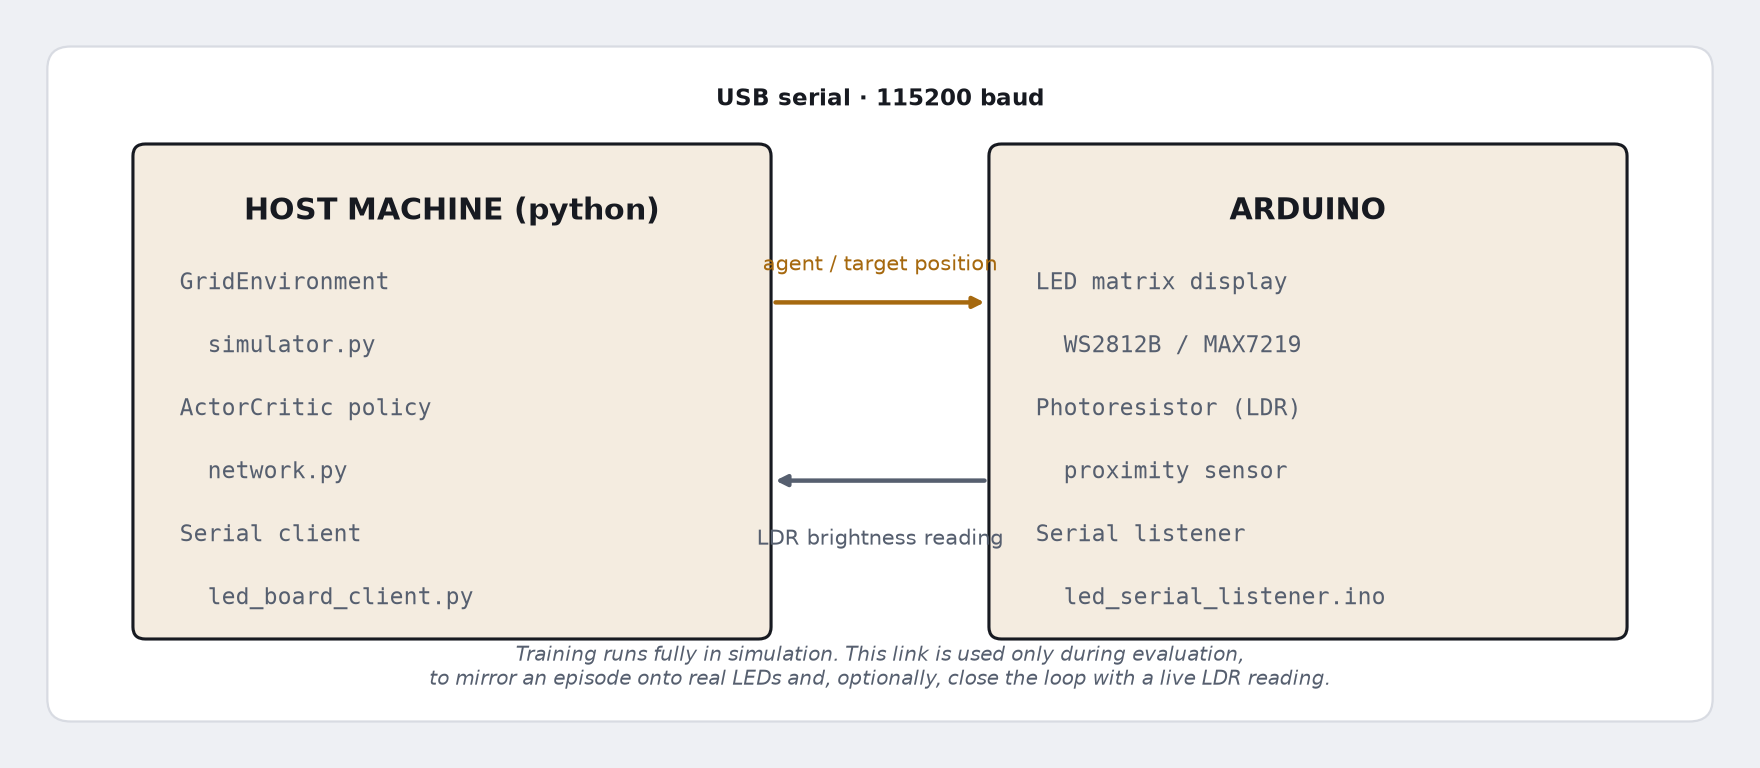
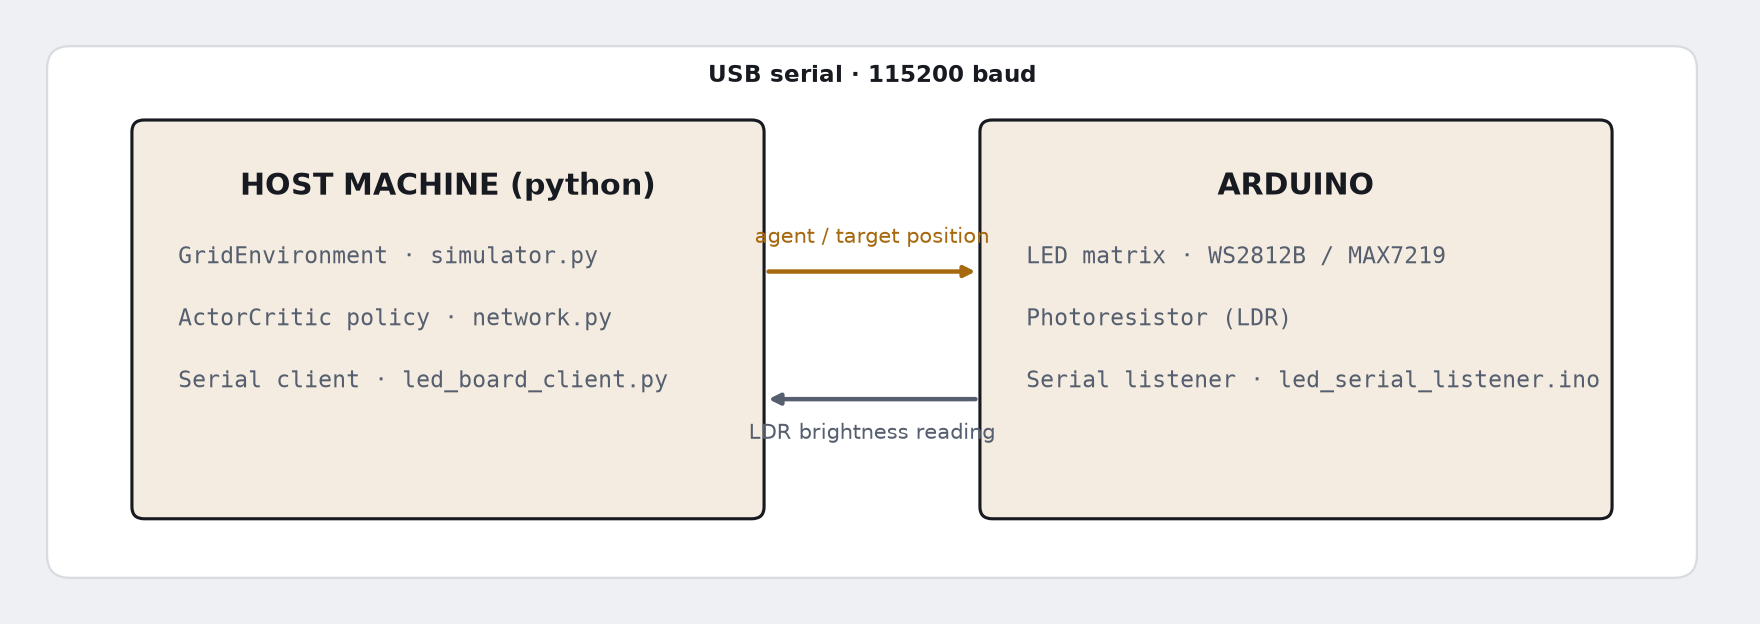
Simplify system diagram to just the host/Arduino connection

diff --git a/assets/generate_diagrams.py b/assets/generate_diagrams.py
@@ -43,57 +43,46 @@ def _box(ax, xy, width, height, title, lines):
 
 
 def make_system_diagram(out_file="assets/system-diagram.png"):
-    fig, ax = plt.subplots(figsize=(11, 4.8), dpi=160)
+    fig, ax = plt.subplots(figsize=(11, 3.9), dpi=160)
     fig.patch.set_facecolor(BG)
     ax.set_facecolor(BG)
     ax.set_xlim(0, 11)
-    ax.set_ylim(0, 4.8)
+    ax.set_ylim(0, 3.9)
     ax.axis("off")
 
-    _card(ax, (0.15, 0.15), 10.7, 4.5)
+    _card(ax, (0.15, 0.15), 10.7, 3.6)
 
-    host_xy, host_w, host_h = (0.7, 0.7), 4.1, 3.3
-    ard_xy, ard_w, ard_h = (6.2, 0.7), 4.1, 3.3
+    host_xy, host_w, host_h = (0.7, 0.55), 4.1, 2.7
+    ard_xy, ard_w, ard_h = (6.2, 0.55), 4.1, 2.7
 
     _box(ax, host_xy, host_w, host_h, "HOST MACHINE (python)", [
-        "GridEnvironment",
-        "  simulator.py",
-        "ActorCritic policy",
-        "  network.py",
-        "Serial client",
-        "  led_board_client.py",
+        "GridEnvironment · simulator.py",
+        "ActorCritic policy · network.py",
+        "Serial client · led_board_client.py",
     ])
     _box(ax, ard_xy, ard_w, ard_h, "ARDUINO", [
-        "LED matrix display",
-        "  WS2812B / MAX7219",
+        "LED matrix · WS2812B / MAX7219",
         "Photoresistor (LDR)",
-        "  proximity sensor",
-        "Serial listener",
-        "  led_serial_listener.ino",
+        "Serial listener · led_serial_listener.ino",
     ])
 
-    mid_y_top = host_xy[1] + host_h * 0.68
-    mid_y_bot = host_xy[1] + host_h * 0.32
+    mid_y_top = host_xy[1] + host_h * 0.62
+    mid_y_bot = host_xy[1] + host_h * 0.30
     x0 = host_xy[0] + host_w
     x1 = ard_xy[0]
 
     ax.annotate("", xy=(x1, mid_y_top), xytext=(x0, mid_y_top),
                 arrowprops=dict(arrowstyle="-|>", color=ACCENT, lw=2))
-    ax.text((x0 + x1) / 2, mid_y_top + 0.18, "agent / target position",
+    ax.text((x0 + x1) / 2, mid_y_top + 0.16, "agent / target position",
             ha="center", va="bottom", fontsize=9.5, color=ACCENT)
 
     ax.annotate("", xy=(x0, mid_y_bot), xytext=(x1, mid_y_bot),
                 arrowprops=dict(arrowstyle="-|>", color=INK_SOFT, lw=2))
-    ax.text((x0 + x1) / 2, mid_y_bot - 0.32, "LDR brightness reading",
+    ax.text((x0 + x1) / 2, mid_y_bot - 0.16, "LDR brightness reading",
             ha="center", va="top", fontsize=9.5, color=INK_SOFT)
 
     ax.text((x0 + x1) / 2, host_xy[1] + host_h + 0.22, "USB serial · 115200 baud",
             ha="center", va="bottom", fontsize=10.5, color=INK, fontweight="bold")
-
-    ax.text(5.5, 0.35,
-            "Training runs fully in simulation. This link is used only during evaluation,\n"
-            "to mirror an episode onto real LEDs and, optionally, close the loop with a live LDR reading.",
-            ha="center", va="bottom", fontsize=9, color=INK_SOFT, style="italic")
 
     fig.tight_layout()
     fig.savefig(out_file, facecolor=BG)
